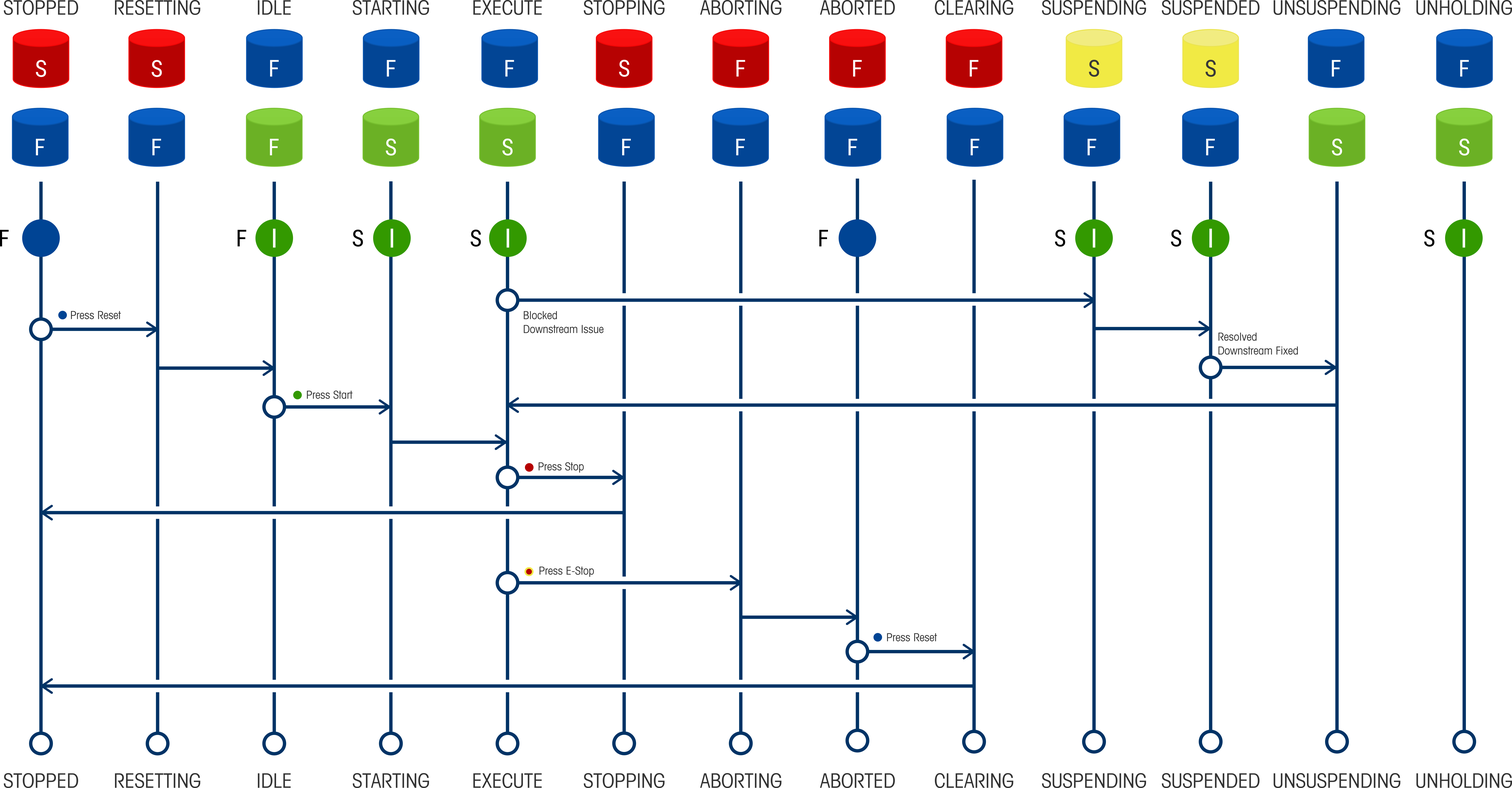
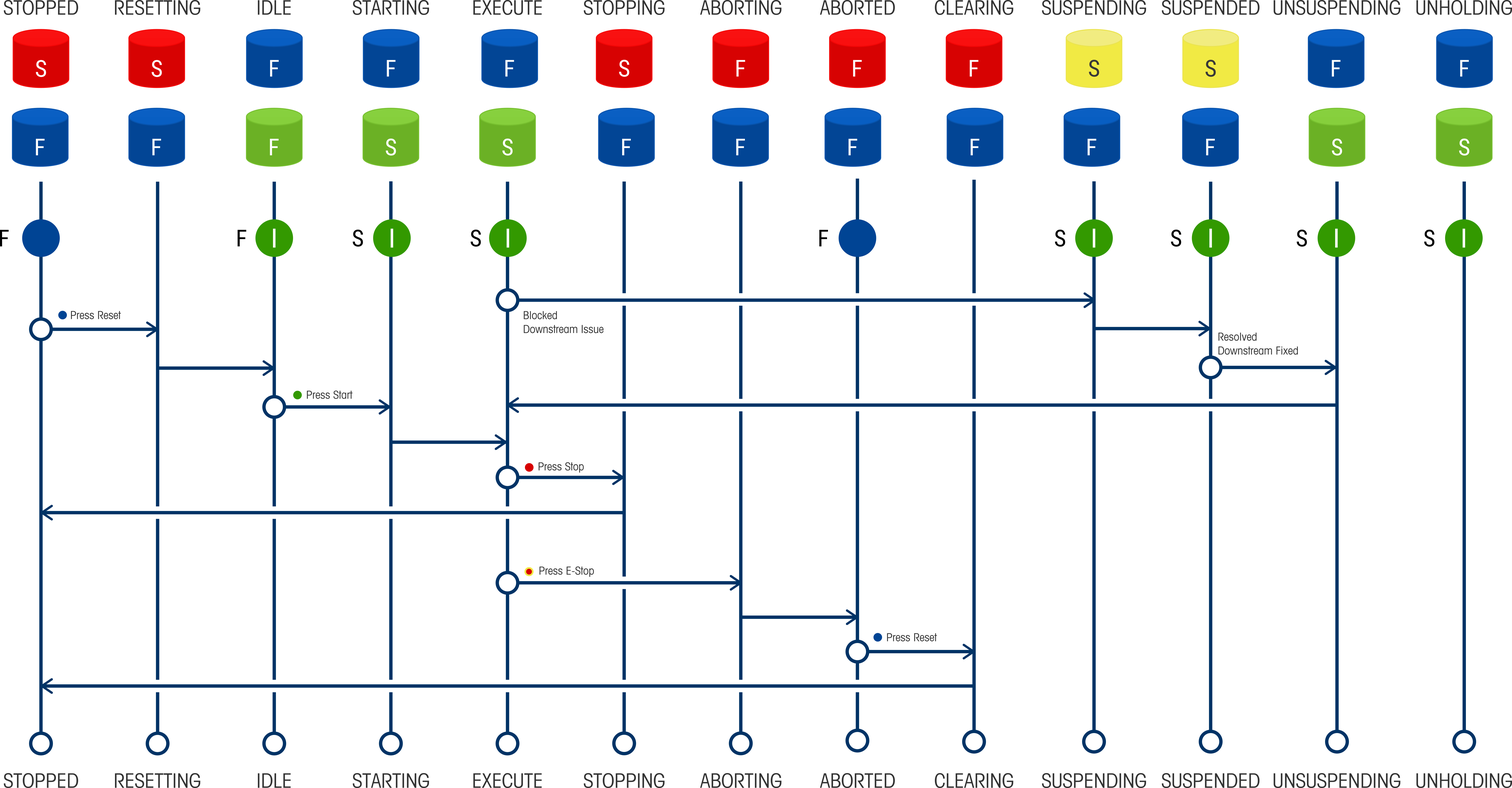
draft for review, updated TR88 reference to 2021, added solid start button in unsuspending, finalized critique, heuristic evaluation, and usability testing sections.

diff --git a/index.html b/index.html
@@ -6,7 +6,7 @@
     <meta http-equiv="X-UA-Compatible" content="IE=edge">
     <meta name="viewport" content="width=device-width, initial-scale=1">
 
-    <title>PackML HMI Implementation Guidance Draft 01S</title>
+    <title>PackML HMI Implementation Guidance Draft 01T</title>
 
     <meta name="author" content="Patrick Toohey">
     <meta name="designer" content="Patrick Toohey">
@@ -183,7 +183,7 @@
                 <li>
                     <a href="#StateModel" class="section">5. PackML State Model Representations</a>
                     <ul>
-                        <li><a href="#packml_state_model_representation">Figure 14: TR88 2020 PackML Diagram</a></li>
+                        <li><a href="#packml_state_model_representation">Figure 14: TR88 2021 PackML Diagram</a></li>
                         <li><a href="#packml_state_model_level1">Figure 15: Proper State Model Alignment</a></li>
                         <li><a href="#packml_state_model_level2">Figure 16: Displaying Pass-Through States</a></li>
                         <li><a href="#packml_state_model_level1a">Figure 17: Minimal Acceptable Alternative Display</a></li>
@@ -393,7 +393,7 @@
                 <span>also shown in the figure, is optionally applied to available horns and illuminated HMI push-buttons. </span>
             </p>
             <figure>
-                <img id="summary-lightstack-table" src="images/LightStackTable8.png" />
+                <img id="summary-lightstack-table" src="images/LightStackTable9.png" />
                 <figcaption>
                     <span>Figure 1: Summary table of lamp color and sequence associated with PackML states and machine conditions, </span>
                     <span>including the associated response for integrated horns and illuminated Start and Reset buttons. </span>
@@ -407,6 +407,7 @@
                 <span>Completed, c) Resetting, Unsuspending, Suspended, Suspending, and d) Stopped, Stopping, Clearing, Aborted, Aborting.</span>
                 <span>Vertical alignment is likewise required for the following groups: a) Idle, Resetting, Stopped, b) Unholding, Starting, Unsuspending, </span>
                 <span>Stopping, c) Held, Execute, Suspended, Clearing, d) Holding, Completing, Suspending, Aborted, and e) Completed, Aborting. </span>
+                <span>Localization of the PackML state names is beyond the scope of this document.</span>
             </p>
             <figure>
                 <img id="summary-packml-state-model" src="images/packml_diagram_standard.png" />
@@ -423,7 +424,8 @@
             </p>
             <h3 id="AbstractNavigation">2.4.3 Navigation Design Abstract</h3>
             <p>
-                <span>[0016] The standard PackML Navigation Template requires a primary menu utilizing the icons and labels displayed in Table 1.</span>
+                <span>[0016] The standard PackML Navigation Template requires a primary menu utilizing the icons and labels displayed in Table 1. </span>
+                <span>Localization of the navigation labels is beyond the scope of this document.</span>
             </p>
             <table id="table-summary-navigation-contexts">
                 <caption>Table 1: Navigation Contexts</caption>
@@ -687,7 +689,7 @@
             <h3 id="StacklightsScope">4.1 Scope</h3>
             <p>
                 <span>[0039] This section of the guidance will specify the mapping between the </span>
-                <span>standard ANSI/ISA TR88 2020 PackML state model &ndash; demonstrated in Figure 6 &ndash; and the associated stacklight </span>
+                <span>standard ANSI/ISA TR88 2021 PackML state model &ndash; demonstrated in Figure 6 &ndash; and the associated stacklight </span>
                 <span>and push-button control implementation standards established here. The mapping will address </span>
                 <span>(a) color coding of stacklight lamps for respective PackML states, (b) related lamp sequences (i.e., flashing or solid), and </span>
                 <span>(c) proper integration of the push-buttons to communicate required operator interactions. </span>
@@ -695,7 +697,7 @@
             <figure>
                 <img id="packml_state_model" src="images/base_diagram_packml.png" />
                 <figcaption>
-                    <span>Figure 6: The standard PackML state model as presented in TR88 2020. </span>
+                    <span>Figure 6: The standard PackML state model as presented in TR88 2021. </span>
                 </figcaption>
             </figure>
             <p>
@@ -719,7 +721,7 @@
             <h3 id="StacklightsStandard">4.2 Standard Implementation</h3>
             <p>
                 <span>[0041] The standard PackML stacklight contains four lamps to represent the </span>
-                <span>PackML states described in ANSI/ISA TR88 2020. </span>
+                <span>PackML states described in ANSI/ISA TR88 2021. </span>
                 <span>Ordered from the top down as demonstrated in Figure 7, the lamps will </span>
                 <span>be illuminated in a specific sequence (i.e., off, solid, or flashing) based on the current PackML state. The </span>
                 <span>standard order &ndash; derived from the indicator light specification in IEC 60204-1:2016 &ndash; </span>
@@ -848,6 +850,11 @@
                     <td>Solid</td>
                 </tr>
                 <tr>
+                    <td></td>
+                    <td>Unsuspending</td>
+                    <td>Solid</td>
+                </tr>
+                <tr>
                     <td>Reset Button Light</td>
                     <td>Aborted</td>
                     <td>Flashing</td>
@@ -946,7 +953,7 @@
             <p>
                 <span>[0049] As demonstrated in Figure 10, the Suspended branch of the PackML state diagram is addressed according to the directional cause </span>
                 <span>of the event. Upstream equipment issues will transition the stacklight to a flashing amber state. Whereas </span>
-                <span>downstream events will trigger a solid amber lamp. With the exception of the Unsuspending state, the Start </span>
+                <span>downstream events will trigger a solid amber lamp. The Start </span>
                 <span>button will remain illuminated throughout. </span>
             </p>
             <figure>
@@ -1188,7 +1195,7 @@
             <h3 id="StateModelScope">5.1 Scope</h3>
             <p>
                 <span>[0066] This section of the guidance will specify the steps necessary to present the standard ANSI/ISA </span>
-                <span>TR88.00.02-2020 PackML state model in a consistent and effective manner. More specifically, this section focuses </span>
+                <span>TR88.00.02-2021 PackML state model in a consistent and effective manner. More specifically, this section focuses </span>
                 <span>on the unique requirements for presenting the state model on a machine's HMI. In keeping with the themes </span>
                 <span>expressed previously, the guidance and associated design requirements prioritize the goals of the production-line operator. </span>
                 <span>The guidance illustrates the typical design challenges that designers must overcome and offers specific recommendations </span>
@@ -1596,7 +1603,7 @@
             </p>
             <h3 id="SummaryStateModel">5.8 Summary</h3>
             <p>
-                <span>[0100] The PackML state model &ndash; most recently revised in TR88.00.02-2020 &ndash; is typically represented </span>
+                <span>[0100] The PackML state model &ndash; most recently revised in TR88.00.02-2021 &ndash; is typically represented </span>
                 <span>visually as a flow chart illustrating viable state transitions. When presented on an HMI, this same state model </span>
                 <span>visualization is used to communicate the active machine-state to operators. To avoid confusing operators, </span>
                 <span>appropriately designed on-screen state-model visualizations must maintain the orientation and alignment utilized in </span>
@@ -2663,7 +2670,7 @@
                 <span>I have seen behind the curtain. I understand the inner workings of my equipment at a level my operator's should never need to comprehend. </span>
                 <span>There is a significant risk that my bias will bleed through; that I will design an interface that is suitable </span>
                 <span>for an engineer, but unsatisfying for an operator. I am more likely to explain away what I feel are simply "quirks" in the interface, which, </span>
-                <span>in the operator's eyes, are more serious usability issues.</span>
+                <span>in the eyes of an operator, are more serious usability issues.</span>
             </p>
             <p>
                 <span>[0173] At the very least, I understand that this bias exists. I can use caution as I design; always </span>
@@ -2710,7 +2717,7 @@
                 <span>clunky widget &ndash; like a talking paperclip &ndash; </span>
                 <span>that they will just find annoying? Engineers armed with a fancy graphical control library are more likely to gold-plate their interfaces. </span>
                 <span>That 15-slice 3D pie chart, with the fancy animation, is not the best tool to communicate with an </span>
-                <span>an operator. Such tools often impress interface designers without offering their operators any actual benefit. </span>
+                <span>operator. Such tools often impress interface designers without offering their operators any actual benefit. </span>
                 <span>On the contrary, these interfaces make it more difficult to interpret the data, which leads to poor situational awareness and </span>
                 <span>misguided decisions.</span>
             </p> 
@@ -2745,18 +2752,18 @@
                 <span>We will have wasted our best chance to actually measure one of our core usability qualities: learnability. </span>
             </p>
             <p>
-                <span>[0180] Accordingly, we will employ an iterative approach. In the following sections we introduce the critique and heuristic evaluation. </span>
+                <span>[0180] Accordingly, we will employ an iterative approach. In the following sections we introduce the critique and heuristic evaluation methods. </span>
                 <span>These steps set the stage for usability testing, where the operator will finally evaluate a potentially finished product. Critique and </span>
-                <span>heuristic evaluation help get us their. Each of these evaluation techniques relies on others to evaluate and provide feedback. </span>
+                <span>heuristic evaluation help get us their. Each of these techniques relies on others to evaluate and provide feedback. </span>
                 <span>Ultimately, the designer is responsible for synthesizing that feedback into an interface that addresses our usability criteria: </span>
                 <span>learnable, memorable, efficient, tolerant, and, satisfying.</span>
             </p>
             <h3 id="DesignEvaluationCritique">7.2 Critique</h3>
             <p>
-                <span>[0181] Design critique is focused primarily on the effectiveness of aesthetic design decisions. Is the contrast appropriate? Is information density overwhelming? </span>
+                <span>[0181] Design critique is focused primarily on the effectiveness of aesthetic design decisions. Is the contrast appropriate? Is the information density overwhelming? </span>
                 <span>Is the typographic scale effective? In order to properly evaluate the relevant design characteristics, the designer must receive criticism from peers </span>
                 <span>skilled in the discipline. The designer must solicit advice from others who can adequately evaluate the interface from an aesthetic </span>
-                <span>perspective; someone who will do so with a fresh set of eyes. Again, the designer is cursed by their design endeavor and they requires honest feedback from </span>
+                <span>perspective; someone who will do so with a fresh set of eyes. Again, the designer is cursed by their design endeavor and they require honest feedback from </span>
                 <span>a qualified expert. Finding such an expert is not as difficult as one would expect.</span>
             </p>
             <p>
@@ -2781,45 +2788,63 @@
                 <span>in turn, are challenged to offer guidance. The designer will hear fresh perspectives and new recommendations that help them grow. </span>
                 <span>Often, the designer will present a variety of design alternatives to help illustrate the challenge to be resolved. After a short review, </span>
                 <span>critique participants will provide concrete feedback in terms of core design principles (e.g., balance, contrast, hierarchy); vague uninformed feedback is of little use to the designer. </span>
-                <span>Ultimately, the designer must decide evaluate the feedback and decide if any changes are necessary. </span>
+                <span>Ultimately, the designer must digest the feedback and decide if any changes are necessary. </span>
             </p>
             <p>
-                <span>[0185] Critique is often employed early on in the design process when the basic design concept is still being established. Once an overall </span>
-                <span>design style is established, broader development can begin. The output from this early phase may include a style guide to help formalize </span>
-                <span>the underlying design decisions. Such tools are helpful when there a multiple members in the design team. After a functional design has matured </span>
-                <span>beyond the concept phase, heuristic evaluation becomes a more appropriate tool for refining the design.</span>
+                <span>[0185] Critique is often employed early on in the design process when the basic concept is still being established. </span>
+                <span>The output from this early phase may include a style guide document, which formalizes and demonstrates </span>
+                <span>the underlying design concepts and associated decisions. Such design artifacts are helpful in communicating </span>
+                <span>the finer points of the style to distributed teams. Once the design language has matured, broader development </span>
+                <span>of functional prototypes can begin. With this new phase, heuristic evaluation becomes an appropriate tool for </span>
+                <span>refining the design. While design critiques will continue to offer value throughout the development process &ndash; </span>
+                <span>particularly when applying the style in contexts that were not originally considered &ndash; heuristic </span>
+                <span>evaluation offers a more concrete process while increasing evaluation bandwidth by incorporating additional reviewers.</span>
             </p>
             <h3 id="DesignEvaluationHeuristics">7.3 Heuristic Evaluation</h3>
             <p>
-                <span>[0186] More formal than design critiques, heuristics evaluation establishes a list of best practices that will </span>
-                <span>be used to validate a functional interface design. While the most commonly employed heuristics all sound like </span>
-                <span>common sense, when evaluated holistically, even the most carefully designed interface will fall astray in some areas. </span>
-                <span>Nielson (1993) offered a set of 10 basic usability heuristics, which include "Speak the Users' Language". Sounds </span>
-                <span>obvious, why wouldn't we? However, when we review an interface we begin to wonder if we are truly complying with </span>
-                <span>these basic expectations.</span>
+                <span>[0186] Generally more formal than design critiques, heuristic evaluations establish a list of general </span>
+                <span>design principles that will be evaluated by a pool of reviewers. The resulting reviews combine to offer </span>
+                <span>a qualitative evaluation of the interface's usability. While the most commonly employed heuristics all sound like </span>
+                <span>common sense, even the most carefully designed interface will likely fall astray in some areas. </span>
+                <span>Nielsen (1993) offered a set of 10 basic usability heuristics, which included general guidance like, </span>
+                <span>"Be Consistent" and "Speak the Users' Language". Sounds </span>
+                <span>obvious, why wouldn't we? However, when we review an interface with an eye for these specific objectives, we </span>
+                <span>may begin to wonder if we are accommodating these basic expectations.</span>
             </p>
             <p>
-                <span>[0187] Heuristic evaluation goes one step beyond design critiques by formalizing a list of required heuristics and tasking multiple </span>
-                <span>evaluators with reviewing the target interface to ensure that the heuristics are accommodated. While the ideal set of heuristics </span>
-                <span>is designed specifically for the target context (e.g., touchscreen devices on a production floor) and the associated users </span>
-                <span>(e.g., production operators), Nielson's list is always a good place to start </span>
-                <span>as it is compact, yet addresses many common usability flaws. </span>
+                <span>[0187] Heuristics effectively constitute a checklist for usability; accommodate the heuristics and usability should follow naturally. </span>
+                <span>When evaluating the heuristics, reviewers must be sure to consider the actual domain-users and the specific </span>
+                <span>context of use. Operators using touchscreen interfaces on a </span>
+                <span>production floor have different goals than an online shopper. The heuristics must be considered from the appropriate perspective. </span>
+                <span>Nielsen's list of heuristics is always a good place to start; it is compact and highlights many common usability </span>
+                <span>flaws. However, it is generic and does not address the specific demands of the production domain. The designer and </span>
+                <span>evaluators are responsible for filling the gap between the generically defined heuristic and the target domain. </span>
+                <span>Additional heuristics should be added as needed to address any unique requirements for a given device. </span>
             </p>
             <p>
-                <span>[0188] Heuristic evaluations should employ multiple evaluators if possible; the exercise will likely uncover more flaws with more evaluators. </span>
-                <span>Evaluators can review the design independently or with the designer so that their feedback is more easily </span>
-                <span>communicated. As with design critiques, the designer should view this exercise as a growth opportunity; especially if they intend </span>
-                <span>to shadow the heuristic evaluators. Whereas as design critique is dependent on evaluators with a background in graphic design, </span>
-                <span>heuristic evaluations can be performed by anyone who is familiar with the specified heuristics. This flexibility increases the likelihood </span>
-                <span>that the designer's peers will be included in the pool of evaluators. The designer should expect </span>
-                <span>a large amount of criticism from evaluators with a good critical eye. As such, humility is essential; the designer must not  </span>
-                <span>be defensive as this will skew the results. The more feedback, the better. Keep in mind, that this </span>
+                <span>[0188] "Speak the Users' Language" has a different meaning in a production environment than in an mobile app. </span>
+                <span>"Oops, something went wrong..." is a fun error code for a web browser, but is probably not an acceptable error message </span>
+                <span>on a piece of manufacturing equipment. It lacks the level of professionalism one would expect from an industrial machine. </span>
+                <span>"Object not defined" is equally inappropriate; an operator should never see engineer-speak. The correct tone is somewhere in between. </span>            
+                <span>A heuristic evaluation should employ multiple reviewers for this very reason. While additional reviewers will not only </span>
+                <span>increase the likelihood of spotting an issue, each evaluator will bring their own flavor to the evaluation.  </span>
+                <span>"Speak the Users' Language" will resonate differently with each evaluator. Accordingly, a sizeable pool of reviewers </span>
+                <span>should help ensure the feedback is well rounded.</span>
+            </p>
+            <p>
+                <span>[0189] Evaluators can review the design independently, in pairs, or directly with the designer. While direct designer-evaluator reviews </span>
+                <span>risk biasing the results, they do ensure that the feedback is effectively communicated. As with design critiques, the designer should </span>
+                <span>view this exercise as a growth opportunity; especially if they intend to shadow the heuristic evaluators. Whereas as design critique </span>
+                <span>is dependent on evaluators with a background in graphic design, heuristic evaluations can be performed by anyone who is familiar with </span>
+                <span>the specified heuristics and the target domain. This flexibility increases the likelihood that the designer's peers will be included </span>
+                <span>in the pool of evaluators. The designer should expect a large amount of criticism from evaluators with a good critical eye. As such, </span>
+                <span>humility is essential; the designer must not be overly defensive as this will skew the results. The more feedback, the better. Keep in mind, that this </span>
                 <span>effort is being put forth for the benefit of the operator. Declaring that objective upfront, will help keep all involved </span>
                 <span>focused on the appropriate goal and with the right mindset.</span>
             </p>
             <p>
-                <span>[0189] Once the feedback from multiple evaluators has been collected, the designer is tasked, again, with reviewing </span>
-                <span>the feedback and making appropriate changes. This may require fundamental changes to the interface design, which </span>
+                <span>[0190] Once the feedback from multiple evaluators has been collected, the designer is tasked, again, with reviewing </span>
+                <span>the feedback and making appropriate changes. This may require fundamental conceptual changes to the interface design, which </span>
                 <span>could warrant a subsequent round of evaluations. After an appropriate number of iterations, the design will be </span>
                 <span>ready for review by those with the most important voice; the operators.</span>
             </p>
@@ -2827,27 +2852,106 @@
             <p>
                 <span>[0190] When the design has matured &ndash; after the styling is optimized, after consistency is considered, after the bugs </span>
                 <span>have been fixed &ndash; the effort will turn to usability testing. This testing will place the interface in front of </span>
-                <span>actual operators; ideally in a realistic production setting. This is the first time operators will see the new interface. </span>
-                <span>Accordingly, this is the best opportunity to evaluate the interface's perceived level of "Learnability". This key usability characteristic </span>
-                <span>will help us determine how easily an operator can move to such a machine and become productive.</span>
+                <span>actual operators for the first time; ideally in a realistic production setting. </span>
+                <span>This is the best opportunity to evaluate the interface's perceived level of "learnability". </span>
+                <span>This key usability characteristic will help us determine how easily an operator can move </span>
+                <span>to such a machine and become productive. Properly managing this key phase of development </span>
+                <span>will help maximize the benefit to operators.</span>
             </p>
             <p>
                 <span>[0191] Usability testing should aim to collect both quantitative and qualitative feedback. How many clicks does it take </span>
                 <span>to complete a specific task? How long does it take to find a screen? Would an operator prefer this new interface over their </span>
-                <span>existing interfaces? To answer these questions, the designer must orchestrate a number of testing activities that sufficiently </span>
+                <span>existing interface? To answer these questions, the designer must orchestrate a number of testing activities that sufficiently </span>
                 <span>exercise the interface. This typically takes the form of A/B testing, where an operator will perform a number of tasks on a </span>
-                <span>pair of competing designs (e.g., old design and new design) to determine if the usability has improved given the new design effort.</span>
+                <span>pair of competing designs (e.g., old design and new design) to determine if the new design has improved the system's usability.</span>
             </p>
             <p>
-                <span>[0192] The designer should develop a formal testing protocol, which will guide an operator through the activities in a manner </span>
-                <span>that ensures the desired quantitative and qualitative measures can be collected.</span>
+                <span>[0192] The designer should develop a formal testing protocol, which will guide the operator through a series of activities </span>
+                <span>that will paint a picture of the relative system usability. Care should be taken to ensure that the test instructions </span>
+                <span>make the desired outcome clear without specifically outlining the steps required to succeed. We want the participant to </span>
+                <span>explore the interface how they see fit; this is not a bug testing exercise, the correct path is the one the operator chooses. </span>
+            </p>
+            <p>
+                <span>[0193] The protocol may include an </span>
+                <span>evaluation of the operator's confidence and perceived level of difficulty. This helps distinguish between simple functionality and actual usability. </span>
+                <span>For example, if instructed to use the interface to changeover from product A to product B, the operator may complete the task </span>
+                <span>correctly, but, due to insufficient feedback, have a low level of confidence that the operation was indeed successful. We certainly </span>
+                <span>want to know if this is the case. Conversely, the operator may fail to complete the task correctly, but have a high level of </span>
+                <span>confidence that they did. Or, more simply, the operator may complete the task successfully and with a high level of confidence, </span>
+                <span>but communicate that the task was quite difficult to complete.</span>
+            </p>
+            <p>
+                <span>[0194] Having a formal test protocol helps ensure that testing is performed consistently between operators. When analyzing </span>
+                <span>test results, it is often useful to compare the outcomes of individual sessions. Such comparisons are not </span>
+                <span>necessarily valid unless the standard protocol is followed consistently. With a formal protocol, the results </span>
+                <span>of multiple sessions can be compared regardless of when they are performed. Ideally, each detail of testing should </span>
+                <span>be repeatable. The instructions provided to the participant, the starting conditions of the equipment, the tasks required, </span>
+                <span>the testing environment; it should all be repeated precisely to guarantee that valid comparisons can be made. </span>
+                <span>With this structure in place, it is more likely that the results will help us identify patterns that will lead to </span>
+                <span>better designs.</span>
+            </p>
+            <p>
+                <span>[0195] The test protocol should be designed to ensure that the key interface components are all sufficiently exercised. </span>
+                <span>Are the basic facilities effective? Does the keyboard work well? Designing activities that require those tools gives the designer a perspective </span>
+                <span>that is no longer impaired by their own curse of knowledge. Does the operator see the "obvious" next step? How did they miss </span>
+                <span>that button? Usability testing can help provide statistical evidence that either supports the existing design or suggests that a redesign is </span>
+                <span>needed.</span>
+            </p>
+            <p>
+                <span>[0196] Ideally, the bulk of the usability testing effort (e.g., a formal study with 30+ participants) should be preceded by one or more pilot test </span>
+                <span>that will help ensure the testing protocol itself is sound. It would be unfortunate to waste time with key test users learning that the </span>
+                <span>instructions don't make sense to them. It is best to learn those lessons with a pilot study that confirms you are ready to schedule time with </span>
+                <span>the larger, more critical, test population.</span>
+            </p>
+            <p>
+                <span>[0197] It is important to assure the individual participants that they are not the ones being evaluated. Usability testing is an evaluation of the system </span>
+                <span>interface, not the operator; be sure to make this distinction clear before testing begins. Communicate that the effort is searching for </span>
+                <span>flaws in the interface and that the operator's participation is necessary to uncover </span>
+                <span>those flaws. This message should help ease any anxiety on the part of the participant being observed. This </span>
+                <span>helps establish trust between the moderator and the participant to improve the chances of unbiased dialog regarding </span>
+                <span>perceived usability.</span>
+            </p>
+            <p>
+                <span>[0198] Additionally, it is generally useful to include a small questionnaire during the participant selection process or at the beginning of each session. This will help appropriately </span>
+                <span>characterize the participant to accommodate statistical comparisons. What type of equipment do they typically operate? How many years of </span>
+                <span>experience do they have? These demographic questions can help explain patterns in the observation data.</span>
+            </p>
+            <p>
+                <span>[0199] When serving as the moderator for your evaluation be sure not to interfere unless absolutely necessary. </span>
+                <span>Avoid giving hints or assistance, as this may bias your quantitative and qualitative measures. Discuss any </span>
+                <span>observed issues during a debriefing session after the testing has been completed. It is helpful, however, to ask and remind the </span>
+                <span>operator to "think aloud" as they explore the interface. "...so, I will click this button, and I see that the dialog </span>
+                <span>closed, so, I think I am done." Such dialogue will help facilitate the debriefing conversation without interfering </span>
+                <span>with the operator's instincts. While this may impact any time-based metrics in your study, the technique helps illustrate </span>
+                <span>the interface from the operator's perspective; that is a worthwhile benefit.</span>
+            </p>
+            <p>
+                <span>[0200] To simplify collection of quantitative data, it is often advantageous to capture a video recording of the session. </span>
+                <span>Counting "clicks" is much easier in a video that can be reviewed after the fact. Moreover, a recording will help compare </span>
+                <span>issues observed with multiple participants. Likewise, a recording will help with sharing the sessions with additional reviewers without crowding </span>
+                <span>the participant with additional bodies and extra sets of eyes. Again, more reasons to communicate upfront that the activity is testing the interface, </span>
+                <span>not the participant.</span>
+            </p>
+            <p>
+                <span>[0201] Testing may quickly illustrate opportunities for improvement. Ideally such issues are exposed in the pilot study, </span>
+                <span>while others may not become clear until a number of operators have exercised the interface. Once the full round </span>
+                <span>of testing is complete, statistical analysis can be used to evaluate the collected quantitative data. Is design A better than design B? </span>
+                <span>The numbers should help answer that question, but will not tell the whole story. Maybe it takes more clicks to accomplish a task in one design, but doing so takes less time because the required decisions </span>
+                <span>are easier to make. Overall, the testing effort should highlight the good and bad aspects of the interface. </span>
+            </p>
+            <p>
+                <span>[0202] The qualitative data (e.g., non-numeric), particularly that collected during the debriefing segment of each test, should </span>
+                <span>prove equally valuable. A moderator familiar with the interface can ask pointed questions to identify why an operator had difficulty </span>
+                <span>with particular segments of the interface. Perhaps a particular control was not highlighted sufficiently, or was tucked away in an </span>
+                <span>area the operator missed. Combined with the raw quantitative data, the qualitative data will paint a well rounded picture to guide </span>
+                <span>any necessary redesign.</span>
             </p>
             <h3 id="DesignEvaluationSummary">7.5 Summary</h3>
             <p>
-                <span>[0200] The techniques describes here merely scratch the surface. Many more evaluation and design techniques exist. </span>
-                <span>We have offered a few common techniques, detailing the who, how, and why for evaluating the aesthetic design and general usability. As a designer </span>
-                <span>walks through these steps, they will determine what works and what does not. Different phases of development can be supplemented </span>
-                <span>by additional techniques like card sorting, which helps a designer determine where to put that parameter to increase the likelihood </span>
+                <span>[0203] The techniques describes here merely scratch the surface. Many more evaluation and design techniques exist. </span>
+                <span>We have offered a few common exercises, detailing the who, how, and why for evaluating the aesthetic design and general usability. As a designer </span>
+                <span>walks through these steps, they will determine what works well and what does not. Different phases of development can be supplemented </span>
+                <span>with additional techniques like card sorting, which helps a designer determine where to put that parameter to increase the likelihood </span>
                 <span>that operators will find it where they expect. Ultimately, as discussed throughout, every step of the design effort should be focused </span>
                 <span>on improving the work environment for the operator. </span>
             </p>
@@ -2855,10 +2959,10 @@
         <div>
             <h2 id="Reference">8. References</h2>
             <hr class="black" />
-            <p class="reference" title="Update with 2020 reference when known">ANSI/ISA-TR88.00.02-2020, Machine and unit/machine States, An Implementation example of ANSI/ISA-88.00.01.</p>
+            <p class="reference" title="Update with 2021 reference when known">ANSI/ISA-TR88.00.02-2021, Machine and unit/machine States, An Implementation example of ANSI/ISA-88.00.01.</p>
             <p class="reference">Endsley, M.R. (1995). Toward a theory of situation awareness in dynamic systems. <em>Human Factors, 37</em>, 85-104</p>
             <p class="reference">IEC 60204-1:2009, Safety of machinery - Electrical equipment of machines - Part 1: General requirements</p>
-            <p class="reference">Nielson, J. (1993). <em>Usability engineering</em>. Cambridge, MA: Academic Press Professional.</p>
+            <p class="reference">Nielsen, J. (1993). <em>Usability engineering</em>. Cambridge, MA: Academic Press Professional.</p>
             <p class="reference">Nokleby, C. (2016). <em>PackML Unit/Machine Implementations Guide</em> - Part 1: PackML Interface State Manager</p>
             <p class="reference">Mills, J.A., and Caldwell, B.S. 1997. Simplified English for computer displays. In <em>Advances in Human Factors and Ergonomics. Design of Computing Systems: Cognitive Considerations. Proceedings of the Seventh International Conference on Human-Computer Interaction</em>, ed. G. Salvendy, M.J. Smith, and R.J. Koubek. San Francisco, CA, August.</p>
             <p class="reference">Schlatter, T. and Levinson, D. (2013). Visual Usability: Principles and Practices for Designing Digital Applications. Waltham, MA: Elsevier, Inc.</p>
@@ -3098,11 +3202,23 @@
                     </td>
                     <td>01S</td>
                 </tr>
+                <tr>
+                    <td>2020-10-07</td>
+                    <td>PST</td>
+                    <td>
+                        <ul>
+                            <li>TR88 reference incremented to 2021</li>
+                            <li>Start button illuminated in Unsuspending</li>
+                            <li>Revisions to critique, heuristic evaluation, and usability testing sections.</li>
+                        </ul>
+                    </td>
+                    <td>01T</td>
+                </tr>
             </table>
         </div>
     </div>
 
-    <footer><a href="#contents">PackML HMI Implementation Guide Draft 01S</a></footer>
+    <footer><a href="#contents">PackML HMI Implementation Guide Draft 01T</a></footer>
 </body>
 
 </html>
